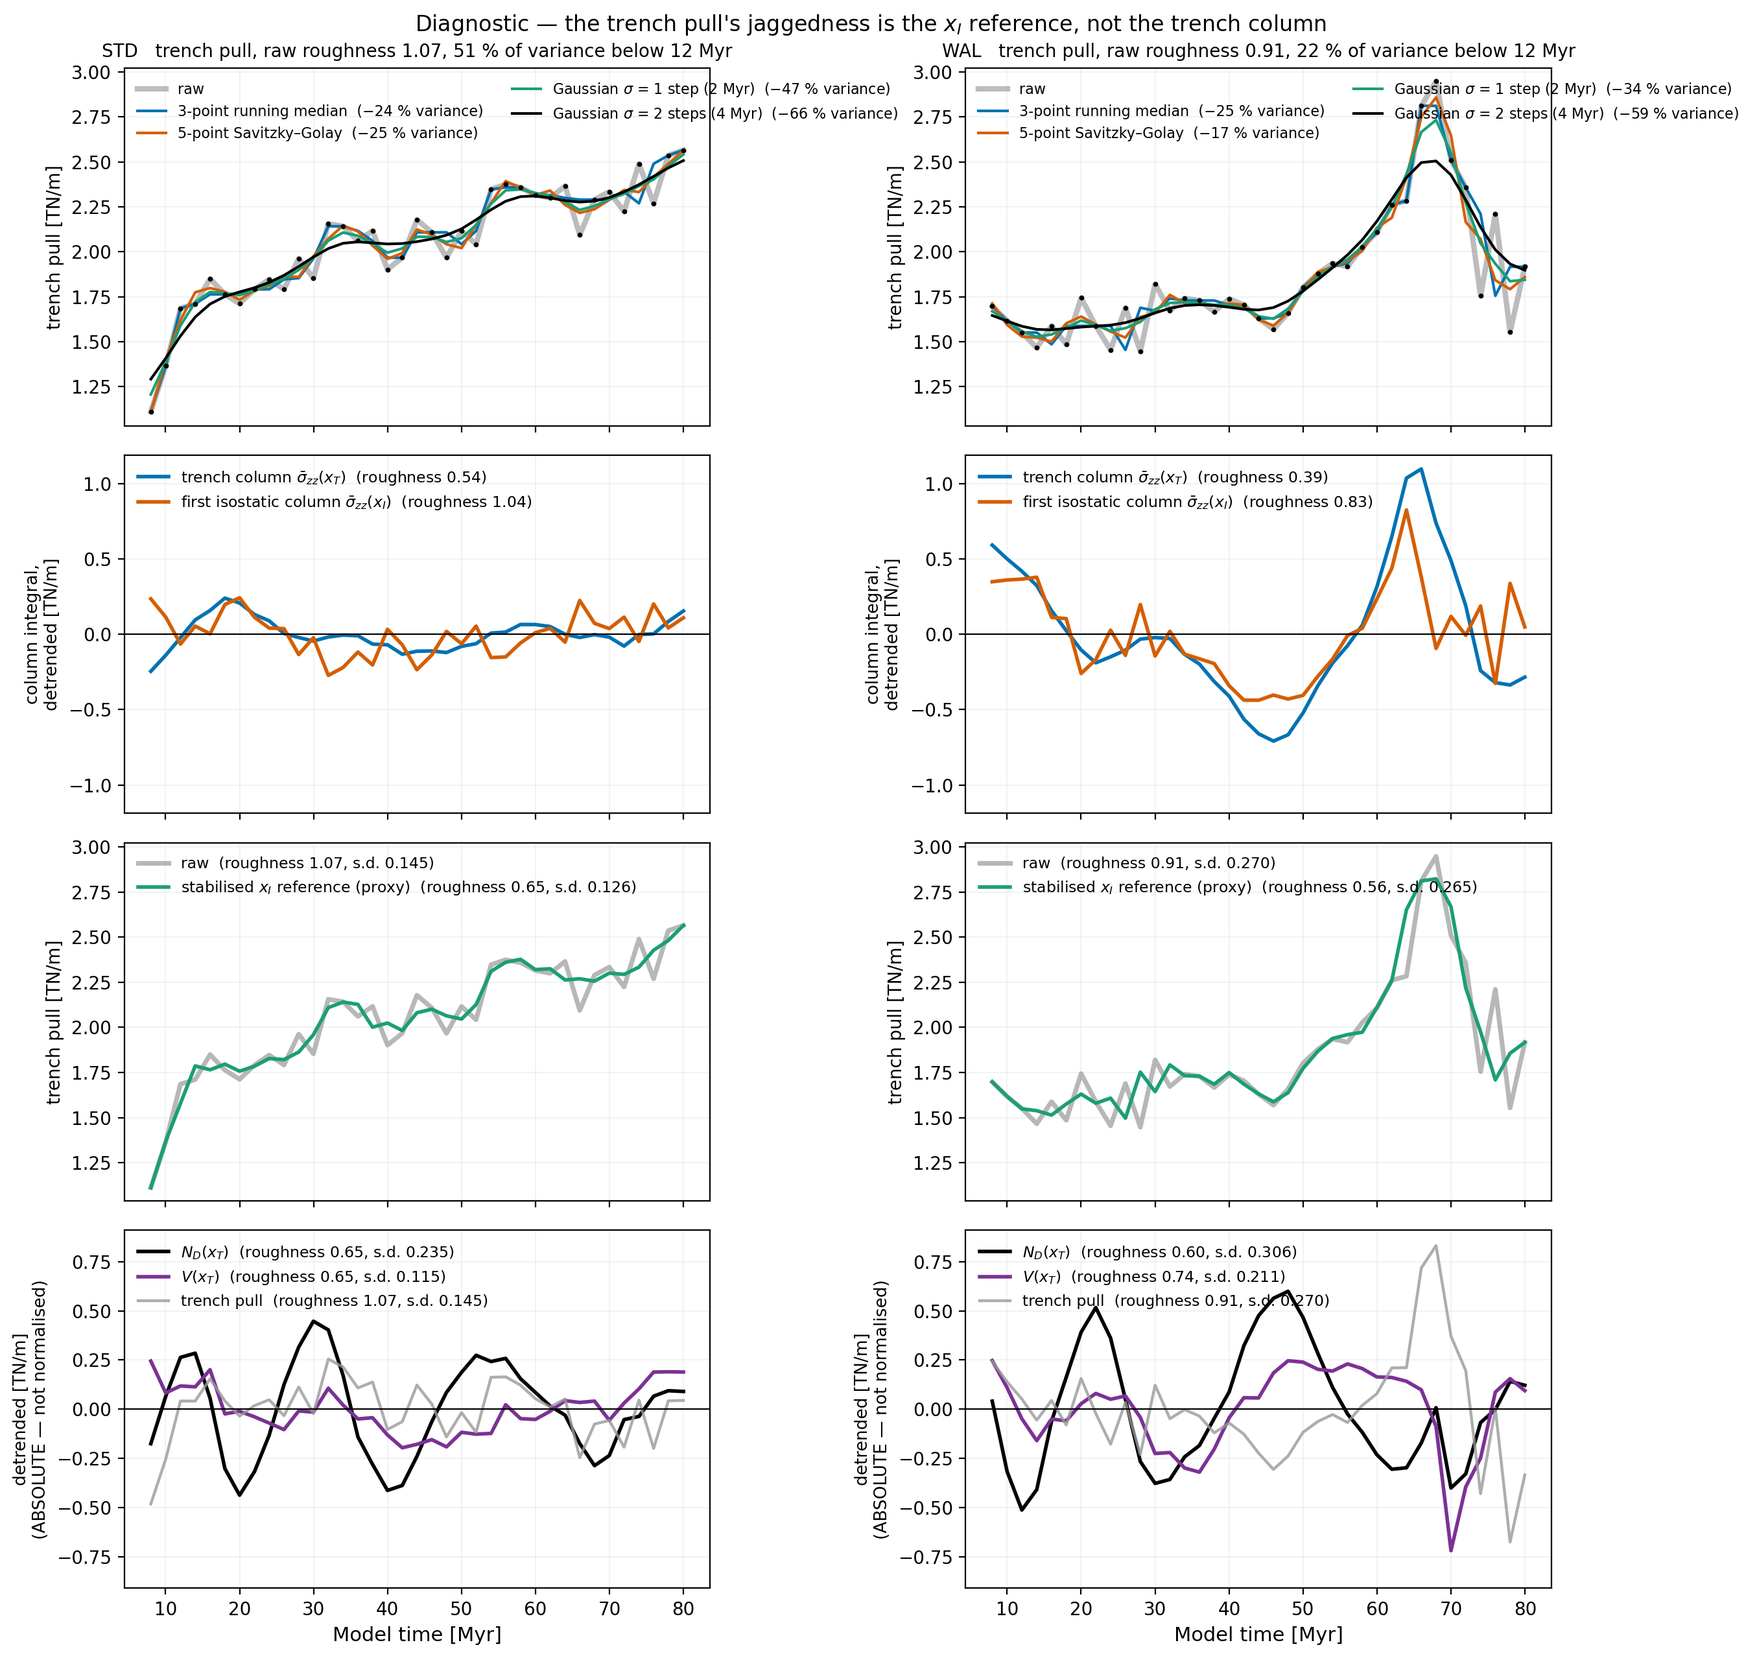
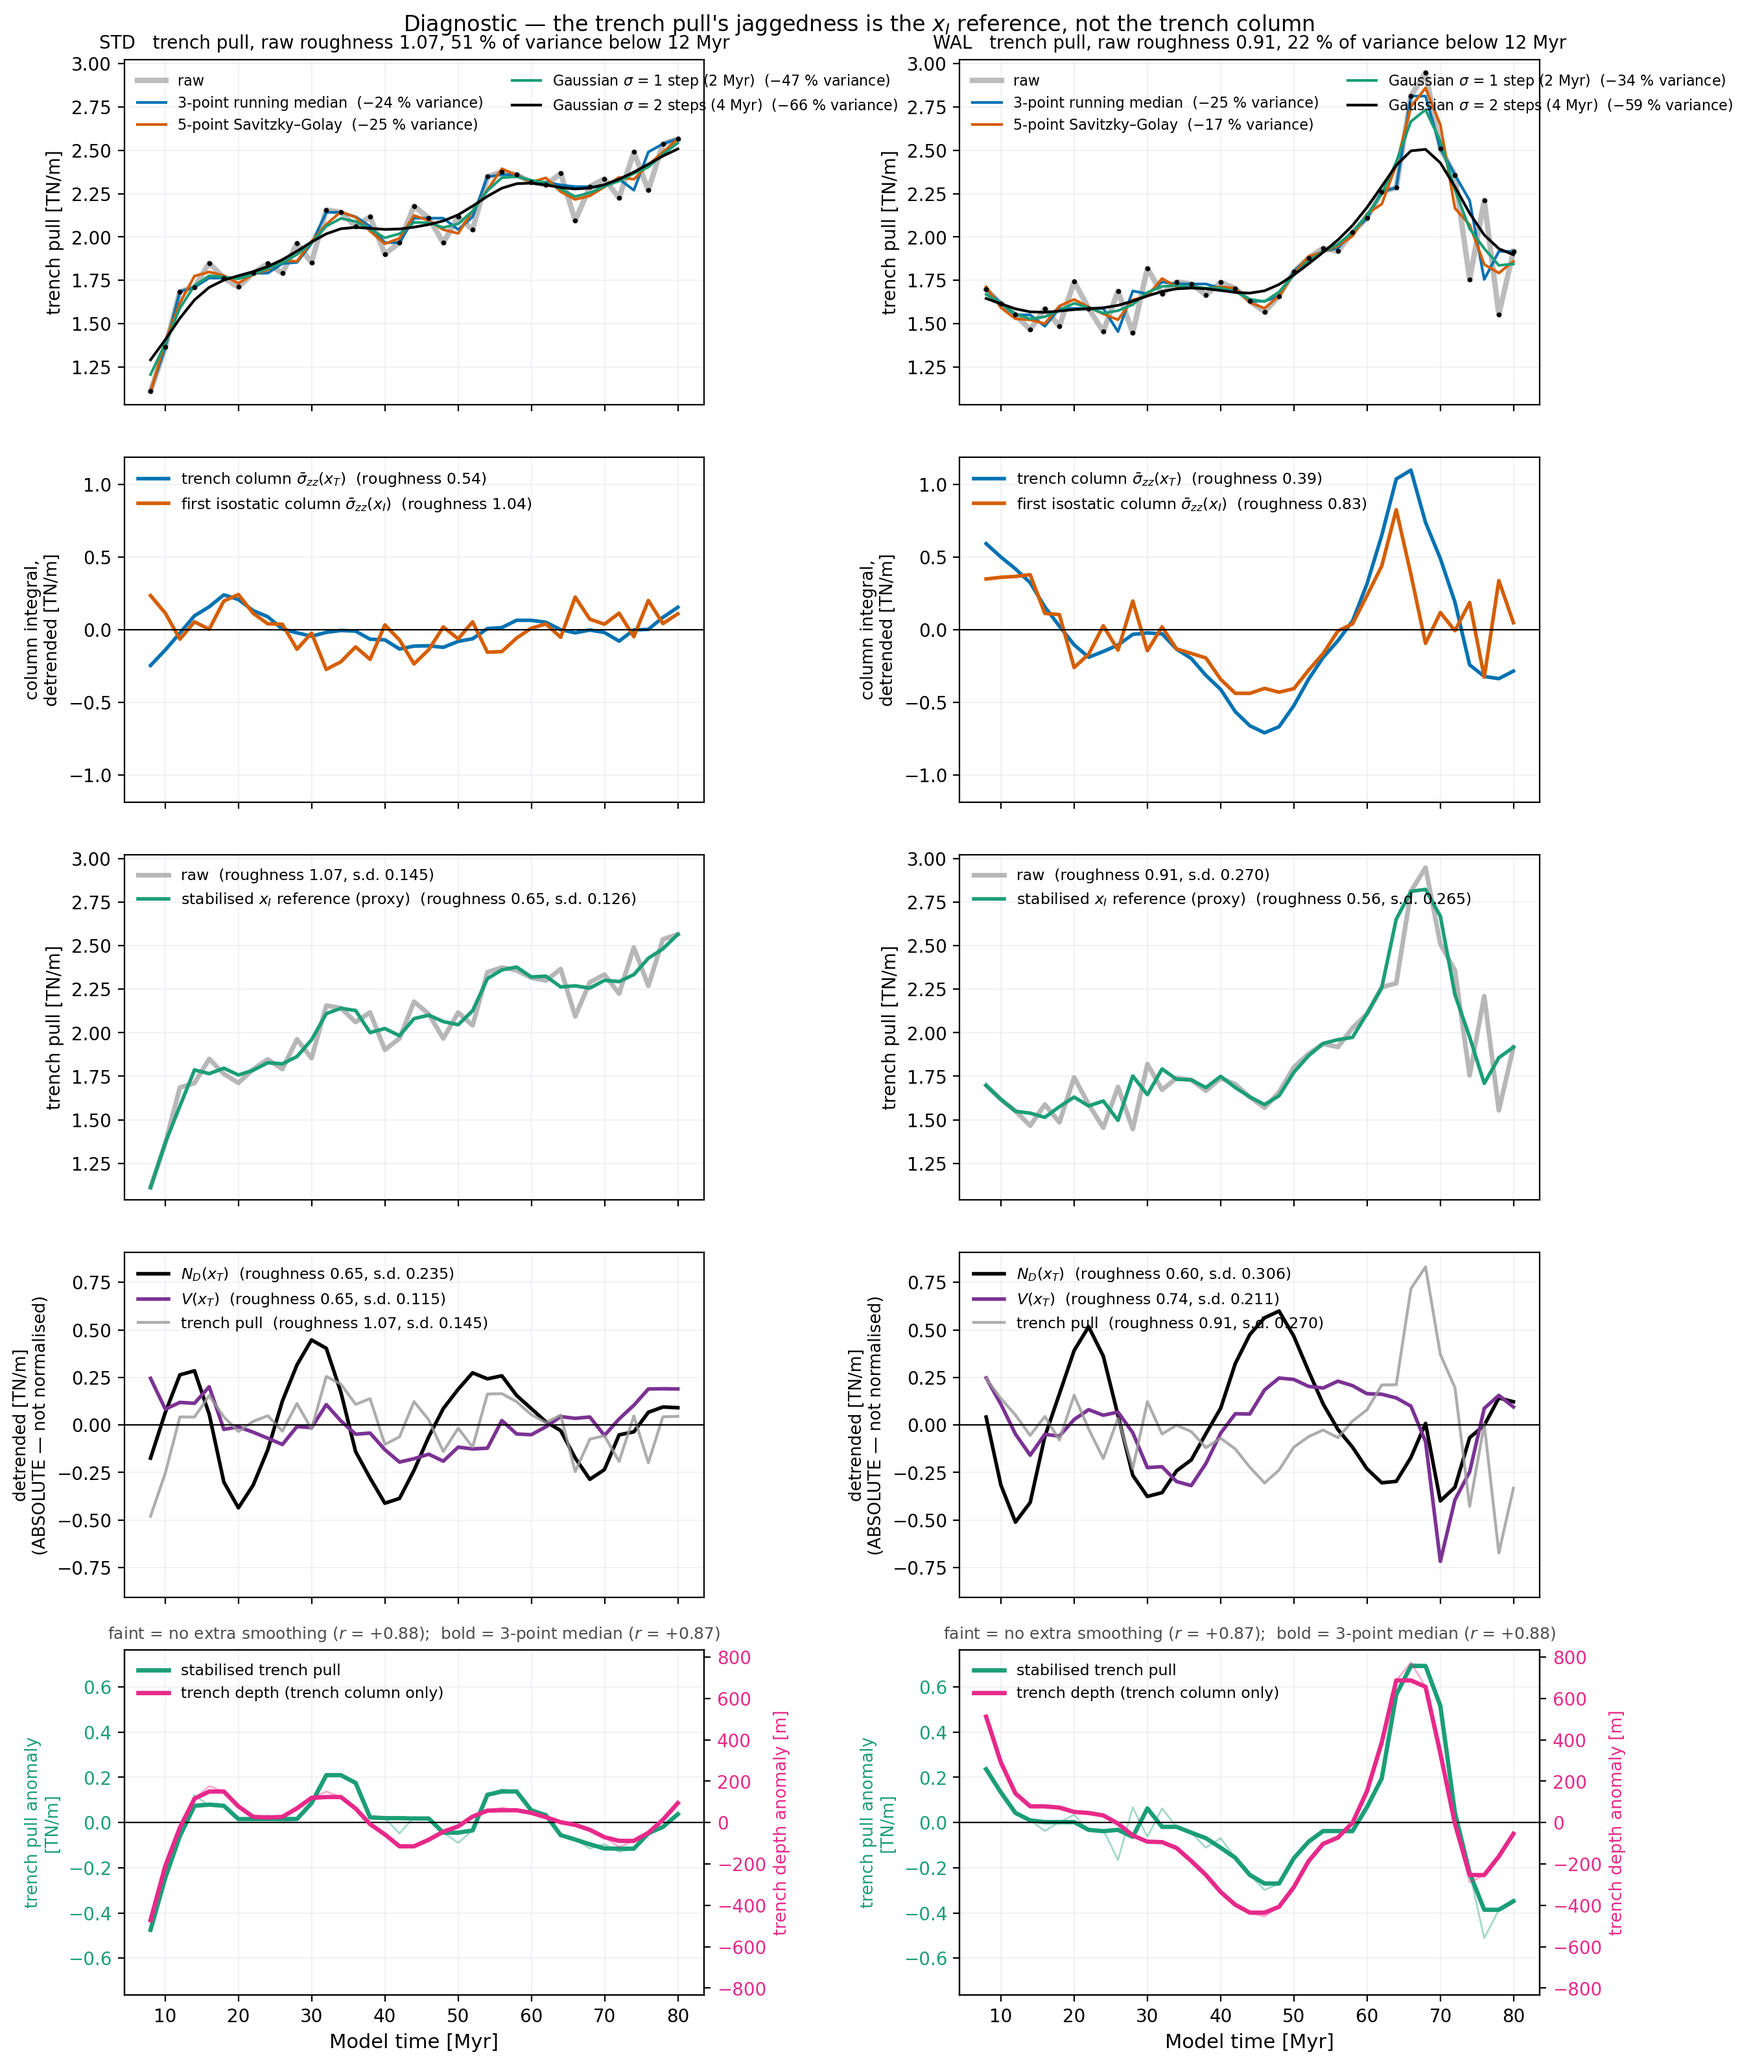
diag_trench_pull_smoothing: row 5, stabilised trench pull against trench depth
Trench depth here is the equivalent topography of the TRENCH COLUMN ALONE,
deliberately not the x_I-referenced version, which would share its
reference with the trench pull and inflate the correlation for exactly the
reason this figure exists. Both shown raw and 3-point-median smoothed.

Stabilised trench pull vs that independent depth: r = +0.88 (STD) / +0.87
(WAL) raw, +0.87 / +0.88 smoothed. Unstabilised it is +0.75 / +0.78, so
removing the x_I noise recovers a real relationship rather than creating
one. Both-x_I-referenced gives +0.95, tabulated so the inflation is on
the record.

Also fixes the equiv_topo sign: positive downward, sigma_zz(0)/rho g,
matching the -p_T/rho g form already used in fig_slab_correlations.

diff --git a/scripts/diag_trench_pull_smoothing.py b/scripts/diag_trench_pull_smoothing.py
@@ -96,6 +96,23 @@ C_TRENCH = '#0072B2'
 C_XI = '#D55E00'
 C_STAB = '#1B9E77'
 C_V = '#7B3294'
+C_W = '#E7298A'
+RHO_G = 3300.0 * 9.8          # no ocean (conventions §6.1)
+
+
+def equiv_topo(szz_profiles):
+    """Equivalent topography sigma_zz(0)/rho g, POSITIVE DOWNWARD, with the
+    surface value linearly extrapolated to z = 0 from the two shallowest
+    cell centres (the cache's z grid starts at 500 m).
+
+    The mesh carries no elevation mass -- topography lives in the surface
+    normal stress -- so a depression of depth w registers as
+    sigma_zz(0) = +rho g w in the tension-positive register. W21 ruling:
+    this is the equivalent topography, validated against the boundary free
+    surface to 1 m. The sign matches fig_slab_correlations, which forms the
+    x_I-referenced version as -p_T(0)/rho g = (szz_T - szz_I)(0)/rho g."""
+    s0 = szz_profiles[:, 0] - 0.5 * (szz_profiles[:, 1] - szz_profiles[:, 0])
+    return s0 / RHO_G
 
 
 def rough(y):
@@ -117,9 +134,10 @@ def main():
     if not hasattr(np, 'trapezoid'):
         np.trapezoid = np.trapz
     d = cpc.load()
-    fig, axes = plt.subplots(4, 2, figsize=(13.4, 13.0), sharex='col')
+    fig, axes = plt.subplots(5, 2, figsize=(13.4, 16.2), sharex='col')
     rows = [('model', 'quantity', 'value')]
     ld = lambda t, y: y - np.polyval(np.polyfit(t, y, 1), t)
+    twins = []
 
     for col, key in enumerate(('STD', 'WAL')):
         c = cpc.derive(d, key)
@@ -198,8 +216,55 @@ def main():
                       f's.d. {ld(t, TP).std():.3f})')
         a3.axhline(0, color='k', lw=0.8)
         a3.set_ylabel('detrended [TN/m]\n(ABSOLUTE — not normalised)', fontsize=9.5)
-        a3.set_xlabel('Model time [Myr]', fontsize=11)
         a3.legend(frameon=False, fontsize=8.5, loc='upper left')
+
+        # --- row 5: stabilised trench pull against trench depth ---------
+        # Dan, 2026-09-23. The trench depth used here is the equivalent
+        # topography of the TRENCH COLUMN ALONE -- deliberately NOT the
+        # x_I-referenced version, which would share its reference with the
+        # trench pull and inflate the correlation for the very reason this
+        # figure exists. The x_I-referenced value is computed alongside and
+        # tabulated so the size of that inflation is on the record.
+        w_abs = equiv_topo(d[f'{key}_szz_T'])
+        w_rel = w_abs - equiv_topo(d[f'{key}_szz_I'])   # x_I-referenced
+        med = lambda y: median_filter(y, size=3, mode='nearest')
+        dtp, dw = ld(t, TP_stab), ld(t, w_abs)
+        r_raw = float(np.corrcoef(dtp, dw)[0, 1])
+        r_sm = float(np.corrcoef(med(dtp), med(dw))[0, 1])
+        r_rel = float(np.corrcoef(ld(t, TP), ld(t, w_rel))[0, 1])
+        r_unstab = float(np.corrcoef(ld(t, TP), dw)[0, 1])
+
+        a4 = axes[4, col]
+        a4.plot(t, dtp, '-', color=C_STAB, lw=1.0, alpha=0.40)
+        h1, = a4.plot(t, med(dtp), '-', color=C_STAB, lw=2.4,
+                      label='stabilised trench pull')
+        a4.set_ylabel('trench pull anomaly\n[TN/m]', fontsize=9.5, color=C_STAB)
+        a4.tick_params(axis='y', labelcolor=C_STAB)
+        a4b = a4.twinx(); twins.append(a4b)
+        a4b.plot(t, dw, '-', color=C_W, lw=1.0, alpha=0.40)
+        h2, = a4b.plot(t, med(dw), '-', color=C_W, lw=2.4,
+                       label='trench depth (trench column only)')
+        a4b.set_ylabel('trench depth anomaly [m]', fontsize=9.5, color=C_W)
+        a4b.tick_params(axis='y', labelcolor=C_W)
+        a4.axhline(0, color='k', lw=0.8)
+        a4.legend([h1, h2], [f'stabilised trench pull',
+                             f'trench depth (trench column only)'],
+                  frameon=False, fontsize=8.5, loc='upper left')
+        a4.set_title(f'faint = no extra smoothing ($r$ = {r_raw:+.2f});  '
+                     f'bold = 3-point median ($r$ = {r_sm:+.2f})',
+                     fontsize=9, color='0.3')
+        a4.set_xlabel('Model time [Myr]', fontsize=11)
+
+        print(f'   {key}: stabilised TP vs trench depth  r {r_raw:+.2f} raw, '
+              f'{r_sm:+.2f} median-smoothed; unstabilised TP vs same depth '
+              f'{r_unstab:+.2f}; both x_I-referenced {r_rel:+.2f}')
+        rows += [(key, 'corr_stabilised_trench_pull_depth_raw', f'{r_raw:.3f}'),
+                 (key, 'corr_stabilised_trench_pull_depth_smoothed', f'{r_sm:.3f}'),
+                 (key, 'corr_raw_trench_pull_depth', f'{r_unstab:.3f}'),
+                 (key, 'corr_trench_pull_depth_both_xI_referenced', f'{r_rel:.3f}'),
+                 (key, 'roughness_trench_depth_trench_column_only', f'{rough(dw):.3f}'),
+                 (key, 'roughness_trench_depth_xI_referenced',
+                  f'{rough(ld(t, w_rel)):.3f}')]
 
         for ax in axes[:, col]:
             ax.grid(alpha=0.25, color=C_RULE, lw=0.6)
@@ -234,14 +299,16 @@ def main():
     # detrended rows (2 and 4) are additionally forced symmetric about
     # zero -- they are anomalies, and an asymmetric anomaly axis
     # misrepresents which way the excursions go.
-    for row in range(4):
-        pair = axes[row, :]
-        lo = min(ax.get_ylim()[0] for ax in pair)
-        hi = max(ax.get_ylim()[1] for ax in pair)
-        if row in (1, 3):
-            hi = max(abs(lo), abs(hi)); lo = -hi
-        for ax in pair:
-            ax.set_ylim(lo, hi)
+    for row in range(5):
+        pair = list(axes[row, :]) + (twins if row == 4 else [])
+        groups = [list(axes[row, :])] if row != 4 else [list(axes[row, :]), twins]
+        for grp in groups:
+            lo = min(ax.get_ylim()[0] for ax in grp)
+            hi = max(ax.get_ylim()[1] for ax in grp)
+            if row in (1, 3, 4):
+                hi = max(abs(lo), abs(hi)); lo = -hi
+            for ax in grp:
+                ax.set_ylim(lo, hi)
 
     fig.suptitle('Diagnostic — the trench pull\'s jaggedness is the $x_I$ reference, '
                  'not the trench column', fontsize=12)
